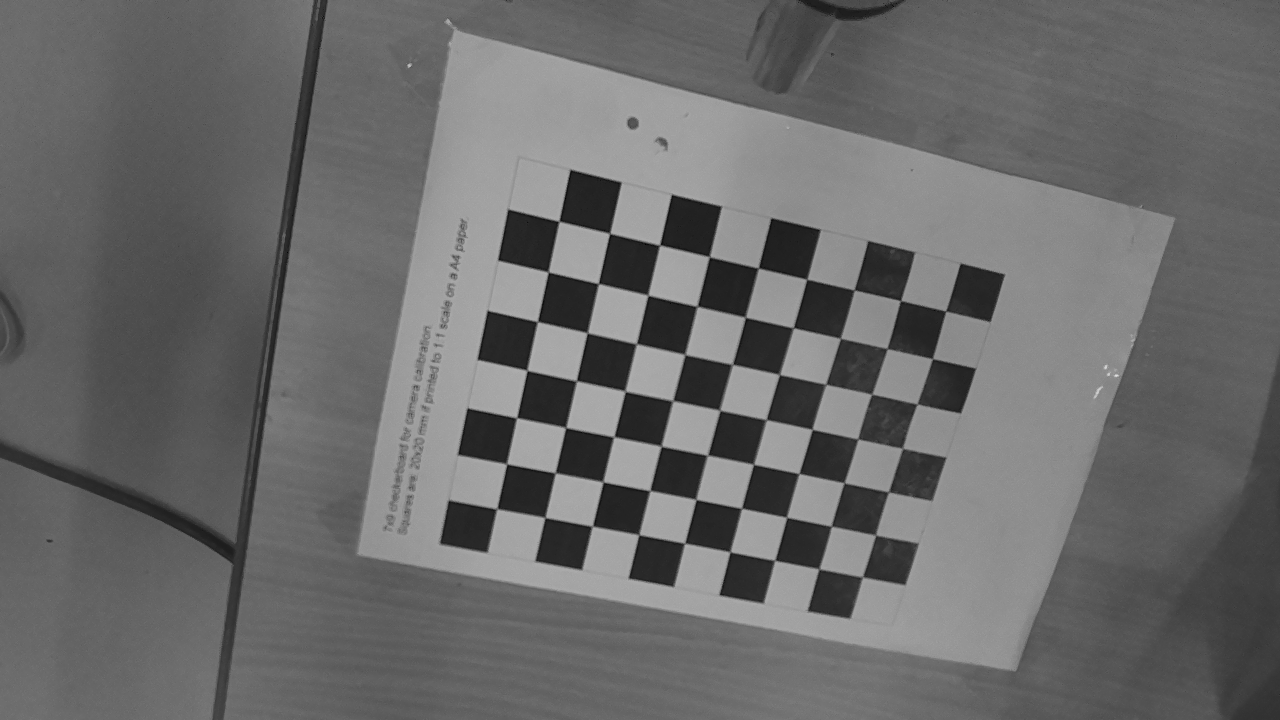
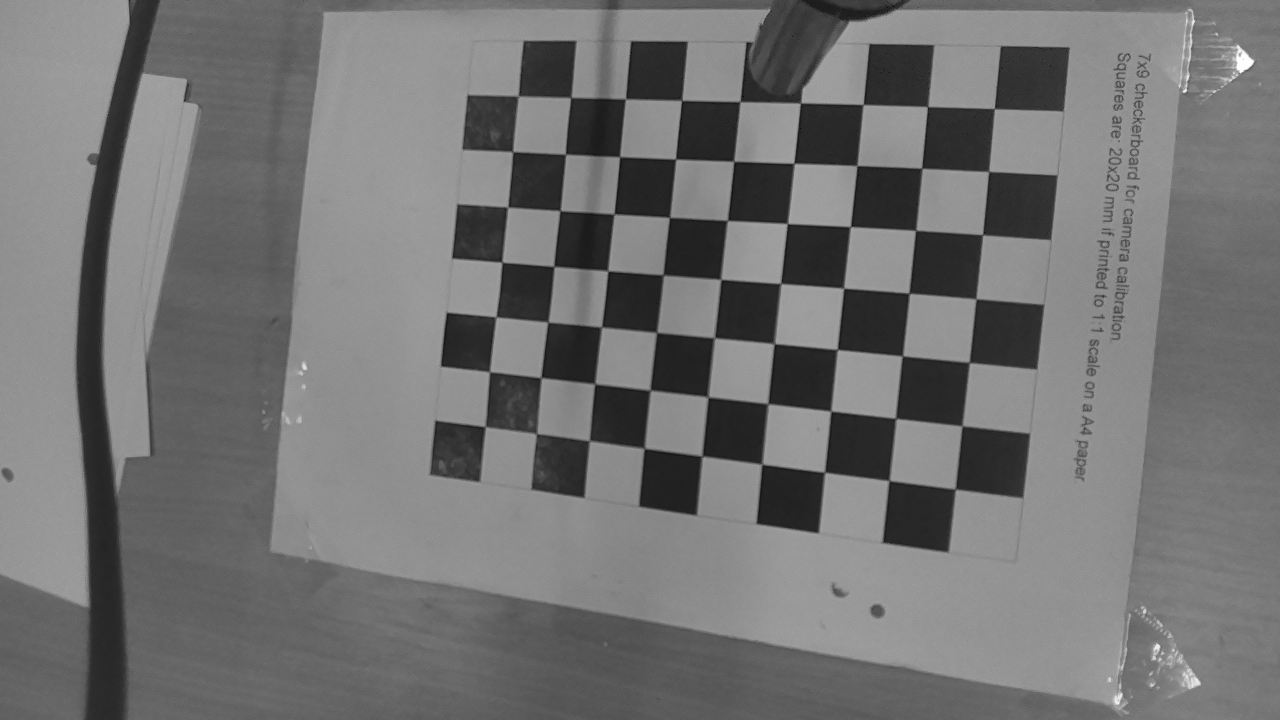
aufnahmen und posen hand eye

diff --git a/backend/mono_camera.py b/backend/mono_camera.py
@@ -69,8 +69,10 @@ class MonoCamera:
         :param next_counter:
         :return:
         """
-        image = Image(self.name, self.take_single_image())
-        ret = image.find_chessboard()
+        image = self.take_single_image()
+        self.save_image(next_counter, image)
+        image = Image(self.name, image)
+        ret = image.find_chessboard(square_size=2, checkerboard_size=(7,9))
         if not ret:
             print("Schachbrettmuster nicht gefunden")
         if len(self.extrinsic_images) > next_counter:
@@ -96,6 +98,16 @@ class MonoCamera:
             self.extrinsic_images.append(image)
             print("appended")
 
+    def save_image(self, next_counter, image):
+        path = "C:/Users/Maximilian Erfurt/PycharmProjects/BachelorarbeitV2/images"
+        # os.makedirs(path, exist_ok=True)
+        file_name = os.path.join(path, f"{next_counter}.png")
+
+        success = cv2.imwrite(file_name, image)
+        if success:
+            print(f"Image saved: {file_name}")
+        else:
+            print("error while saveing image!")
 
     def load_image(self, next_counter):
         #path = "C:/Users/Stevi/Desktop/Bachelorarbeit/Quellen/Camera_Calibration/Camera_Calibration/images"
@@ -151,7 +163,7 @@ class MonoCamera:
         :return:
         """
         image = Image(self.name, self.take_single_image())
-        ret = image.find_chessboard()
+        ret = image.find_chessboard(square_size= 2, checkerboard_size=(7,9) )
         if not ret:
             print("schachbrettmuster nicht gefunden")
         if len(self.intrinsic_images) > next_counter:
@@ -255,10 +267,10 @@ class MonoCamera:
         r_vecs = list(r_vecs)
         for i in range(len(r_vecs)):
             R, _ = cv2.Rodrigues(r_vecs[i])
-            # R_inv = linalg.inv(R)
-            r, _ = cv2.Rodrigues(R)
+            R_inv = linalg.inv(R)
+            r, _ = cv2.Rodrigues(R_inv)
             r_vecs[i] = r
-        # t_vecs = [-t for t in t_vecs]
+        t_vecs = [-t for t in t_vecs]
         return r_vecs, t_vecs
 
     def get_transformation_flange2base(self):
@@ -279,10 +291,10 @@ class MonoCamera:
         r_vecs, t_vecs = [], []
         for T in self.extrinsic_rob_transformations:
             R = T[:3, :3]   # slice the rotation matrix
-            # R_inv = linalg.inv(R)   # inverse R to get rotation from flange to base
-            r,_ = cv2.Rodrigues(R)    # turn rotation matrix int rotational vector
+            R_inv = linalg.inv(R)   # inverse R to get rotation from flange to base
+            r,_ = cv2.Rodrigues(R_inv)    # turn rotation matrix int rotational vector
             r_vecs.append(r)    # append to list
-            t_vecs.append(T[:3, 3])  # slice t_vec and multiply with -1 to get flange to base
+            t_vecs.append(-1*T[:3, 3])  # slice t_vec and multiply with -1 to get flange to base
 
         return r_vecs, t_vecs
 

diff --git a/frontend/extrinsic_calibration_gui.py b/frontend/extrinsic_calibration_gui.py
@@ -70,13 +70,14 @@ class ExtrinsicCalibrationGUI(QDialog):
         #self.setGeometry(100, 100, 400, 100)
 
     def take_image(self):
-        self.image_taking_thread = threading.Thread(target = self.mono_cam.test_extrinsic_image, args=(self.next_counter,))
+        self.take_image_button.setEnabled(False)
+        self.image_taking_thread = threading.Thread(target = self.mono_cam.take_extrinsic_image, args=(self.next_counter,))
         self.image_taking_thread.start()
         self.image_getting_thread = threading.Thread(target=self.update_image_label)
         self.image_getting_thread.start()
-
     def update_image_label(self):
         self.image_taking_thread.join()
+        self.take_image_button.setEnabled(True)
         try:
             # try to get the image from according cam
             image = self.mono_cam.extrinsic_images[self.next_counter].cb_image
@@ -125,9 +126,9 @@ class ExtrinsicCalibrationGUI(QDialog):
         self.image_label.clear()
         self.adjustSize()
 
-        if self.next_counter == 10:
+        if self.next_counter == 18:
             self.next_button.setText("Finish")
-        if self.next_counter == 11:
+        if self.next_counter == 19:
             #self.mono_cam.extrinsic_calibration()
             self.mono_cam.opencv_hand_eye_calibration()
             self.close()

diff --git a/backend/stereo_camera.py b/backend/stereo_camera.py
@@ -59,8 +59,8 @@ class StereoCamera:
         left_image, right_image = self.take_synced_images()
         left_image = Image("left", left_image)
         right_image = Image("right", right_image)
-        ret_left = left_image.find_chessboard()
-        ret_right = right_image.find_chessboard()
+        ret_left = left_image.find_chessboard(square_size= 2, checkerboard_size= (7,9))
+        ret_right = right_image.find_chessboard(square_size= 2, checkerboard_size= (7,9))
         if not ret_left and not ret_right:
             print("no Checkerboard")
         if len(self.calibration_images_right) > counter and len(self.calibration_images_left) > counter:
@@ -191,10 +191,10 @@ class StereoCamera:
     def transform_to_flange(self, p_cam):
         p_flange = self.camera_left.eye_hand_matrix @ p_cam
         print ("p_flange", p_flange)
-        p_tool = p_flange - [[0],
-                             [0],
-                             [-314.5],
-                             [0]]
+        p_tool = p_flange #- [[0],
+                           #  [0],
+                            # [-314.5],
+                             #[0]]
         return p_tool
 
     def send_position_to_robot(self):

diff --git a/backend/helper.py b/backend/helper.py
@@ -28,8 +28,9 @@ def pose_to_transformation_matrix(pose):
     x, y, z, rx, ry, rz = map(float, pose)
 
     # transform euler angles to rotation matrix
-    rotation = R.from_euler("zyx", [rx, ry, rz])
-    r_mat = rotation.as_matrix()
+    #rotation = R.from_euler("zyx", [rx, ry, rz])
+    #r_mat = rotation.as_matrix()
+    r_mat, _ = cv2.Rodrigues(np.array([rx, ry, rz]))
 
     # create 4x4 transformationmatrix
     transformation_matrix = np.eye(4)
@@ -203,7 +204,7 @@ def dbscan_clustering(image):
     return centers
 
 def load_rob_poses(next_counter):
-    path = "C:/Users/Stevi/PycharmProjects/BachelorarbeitV2/rob_poses.json"
+    path = "C:/Users/Maximilian Erfurt/PycharmProjects/BachelorarbeitV2/rob_poses.json"
     #path = "C:/Users/Stevi/Desktop/Bachelorarbeit/Quellen/Camera_Calibration/Camera_Calibration/robot_poses.json"
     with open(path, "r") as file:
         data = json.load(file)
@@ -212,10 +213,10 @@ def load_rob_poses(next_counter):
     x = pose["x"]
     y = pose["y"]
     z = pose["z"]
-    a = pose["a"]
-    b = pose["b"]
-    c = pose["c"]
-    return x,y,z,a,b,c
+    rx = pose["rx"]
+    ry = pose["ry"]
+    rz = pose["rz"]
+    return x,y,z,rx,ry,rz
 
 
 
